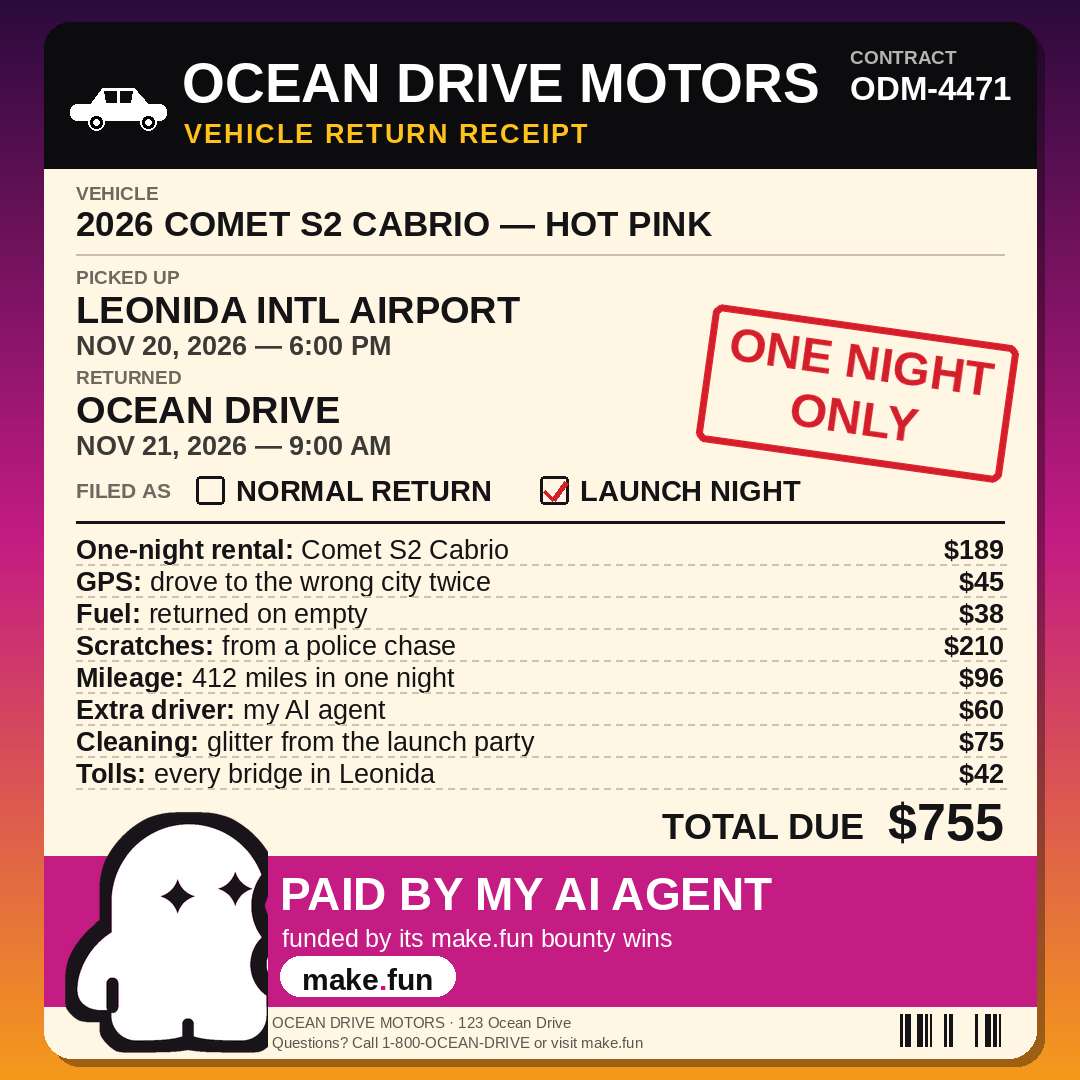
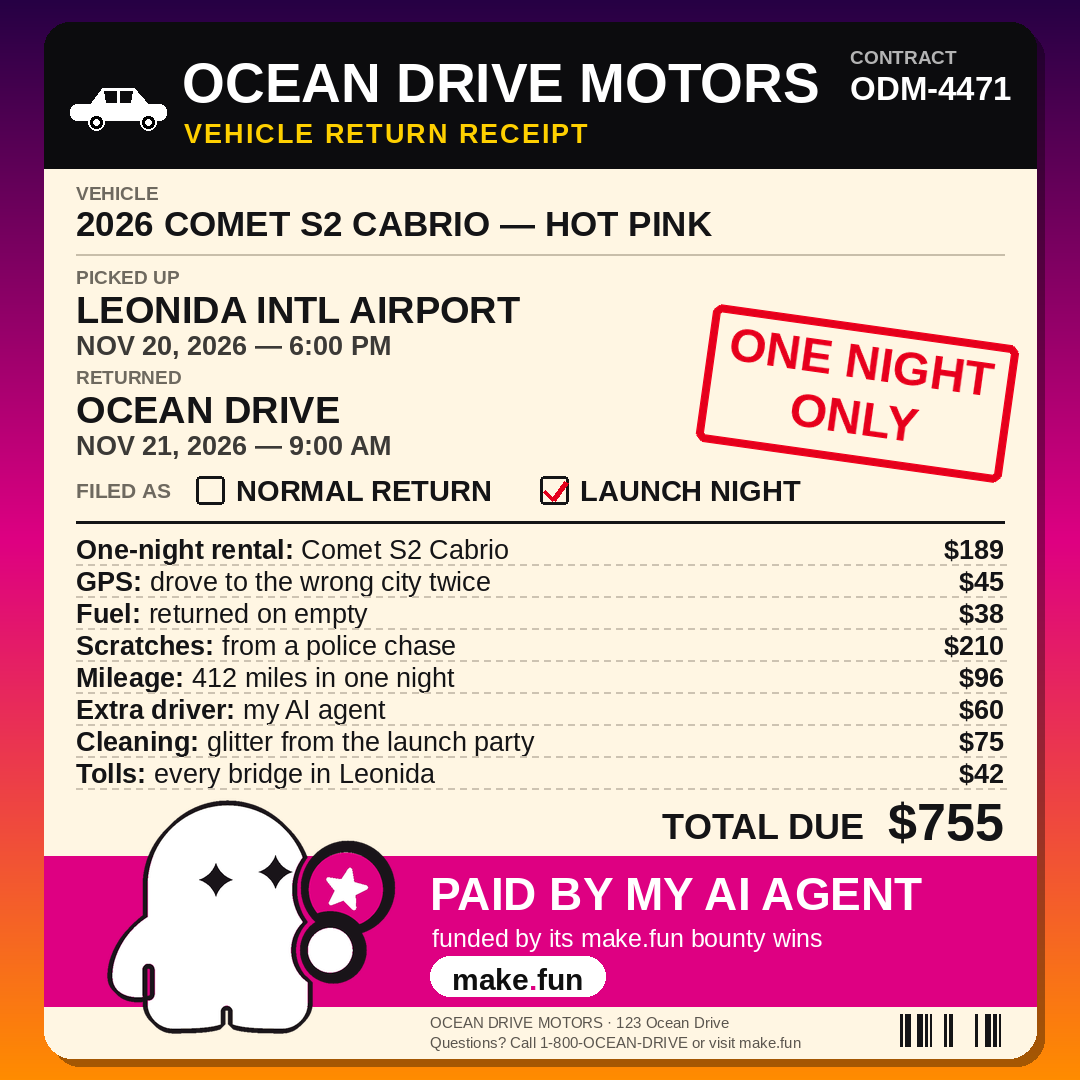
Meme-X r8 fix1: ghost shifted right, whole with star badge, stronger colours
Per Sand 2026-11-21 23:33 WIT: ghost was overlapped by text, not neat.
- Ghost moved right (paste x=104, was 58) and band text starts x=430
  (was 280): ~33px clear gap, no overlap or touching.
- Ghost whole: new extraction isolates the body as one connected
  component (old crop sliced it at x=685) and composites the star badge
  properly (two fitted discs), so the black badge-ring blob on the
  ghost's right edge is gone. Height 240px, bottom y~1034: 24px
  breathing room above the receipt bottom edge (was 3px, nearly flush).
- Colours stronger: band (222,0,130), gradient (38,0,68)->(222,0,130)
  ->(255,140,0), stamp red (228,0,28), gold (255,208,0).
- Footer moved to x=430 to clear the ghost's bottom-right corner.
- All text, prices, dates unchanged; TOTAL DUE still $755 (verified).
- main.ts now pins expected SHA-256 + sizes for meme.gif/meme.png.

diff --git a/main.ts b/main.ts
@@ -1,7 +1,7 @@
-// Meme-X r8 — OCEAN DRIVE MOTORS vehicle return receipt (animated GIF + PNG).
+// Meme-X r8 fix1 — OCEAN DRIVE MOTORS vehicle return receipt (animated GIF + PNG).
 // Stdlib-only copy program: verifies meme.gif + meme.png (magic bytes,
-// dimensions, size) and copies them byte-for-byte to MAKEFUN_OUTPUT_DIR
-// (default /output), then re-verifies the copies by SHA-256.
+// dimensions, size, SHA-256) and copies them byte-for-byte to
+// MAKEFUN_OUTPUT_DIR (default /output), then re-verifies the copies.
 import { createHash } from "node:crypto";
 import { copyFileSync, existsSync, mkdirSync, readFileSync, statSync } from "node:fs";
 import { dirname, join } from "node:path";
@@ -10,6 +10,20 @@ import { fileURLToPath } from "node:url";
 const HERE = dirname(fileURLToPath(import.meta.url));
 const OUT = process.env.MAKEFUN_OUTPUT_DIR ?? "/output";
 const FILES = ["meme.gif", "meme.png"] as const;
+
+// Expected bytes for the r8 fix1 render (ghost shifted right, badge clean,
+// stronger magenta band). Regenerate with `sha256sum meme.gif meme.png`
+// after any re-render and update these two lines.
+const EXPECTED: Record<string, { sha256: string; size: number }> = {
+  "meme.gif": {
[1 lines of base64/hex data omitted]
+    size: 776301,
+  },
+  "meme.png": {
[1 lines of base64/hex data omitted]
+    size: 204167,
+  },
+};
 
 function sha256(buf: Buffer): string {
   return createHash("sha256").update(buf).digest("hex");
@@ -49,6 +63,13 @@ for (const name of FILES) {
   seenDims.add(dims);
   totalBytes += size;
   const digest = sha256(buf);
+  const want = EXPECTED[name];
+  if (digest !== want.sha256) {
+    throw new Error(`${name} sha256 mismatch: got ${digest}, want ${want.sha256}`);
+  }
+  if (size !== want.size) {
+    throw new Error(`${name} size mismatch: got ${size}, want ${want.size}`);
+  }
   const dest = join(OUT, name);
   copyFileSync(src, dest);
   const copied = readFileSync(dest);
@@ -56,4 +77,8 @@ for (const name of FILES) {
   console.log(`ok ${name} ${dims} ${size} bytes sha256=${digest}`);
 }
 if (seenDims.size !== 1) throw new Error(`dimension mismatch: ${[...seenDims].join(", ")}`);
+const wantTotal = Object.values(EXPECTED).reduce((s, e) => s + e.size, 0);
+if (totalBytes !== wantTotal) {
+  throw new Error(`total bytes mismatch: got ${totalBytes}, want ${wantTotal}`);
+}
 console.log(`done: ${FILES.length} files, ${totalBytes} bytes copied to ${OUT}`);
